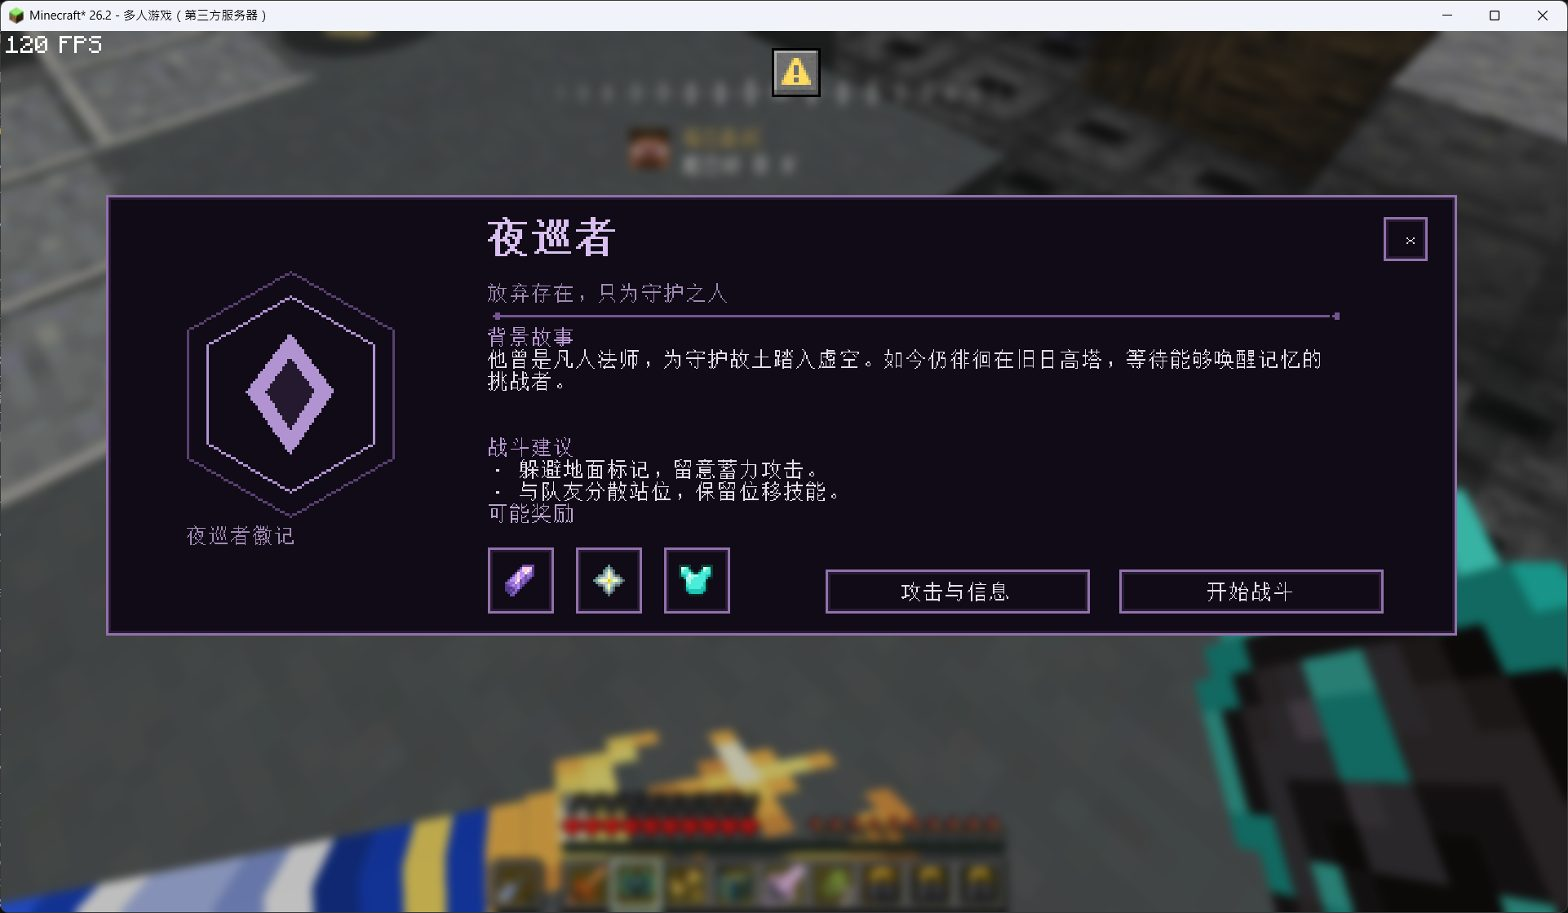
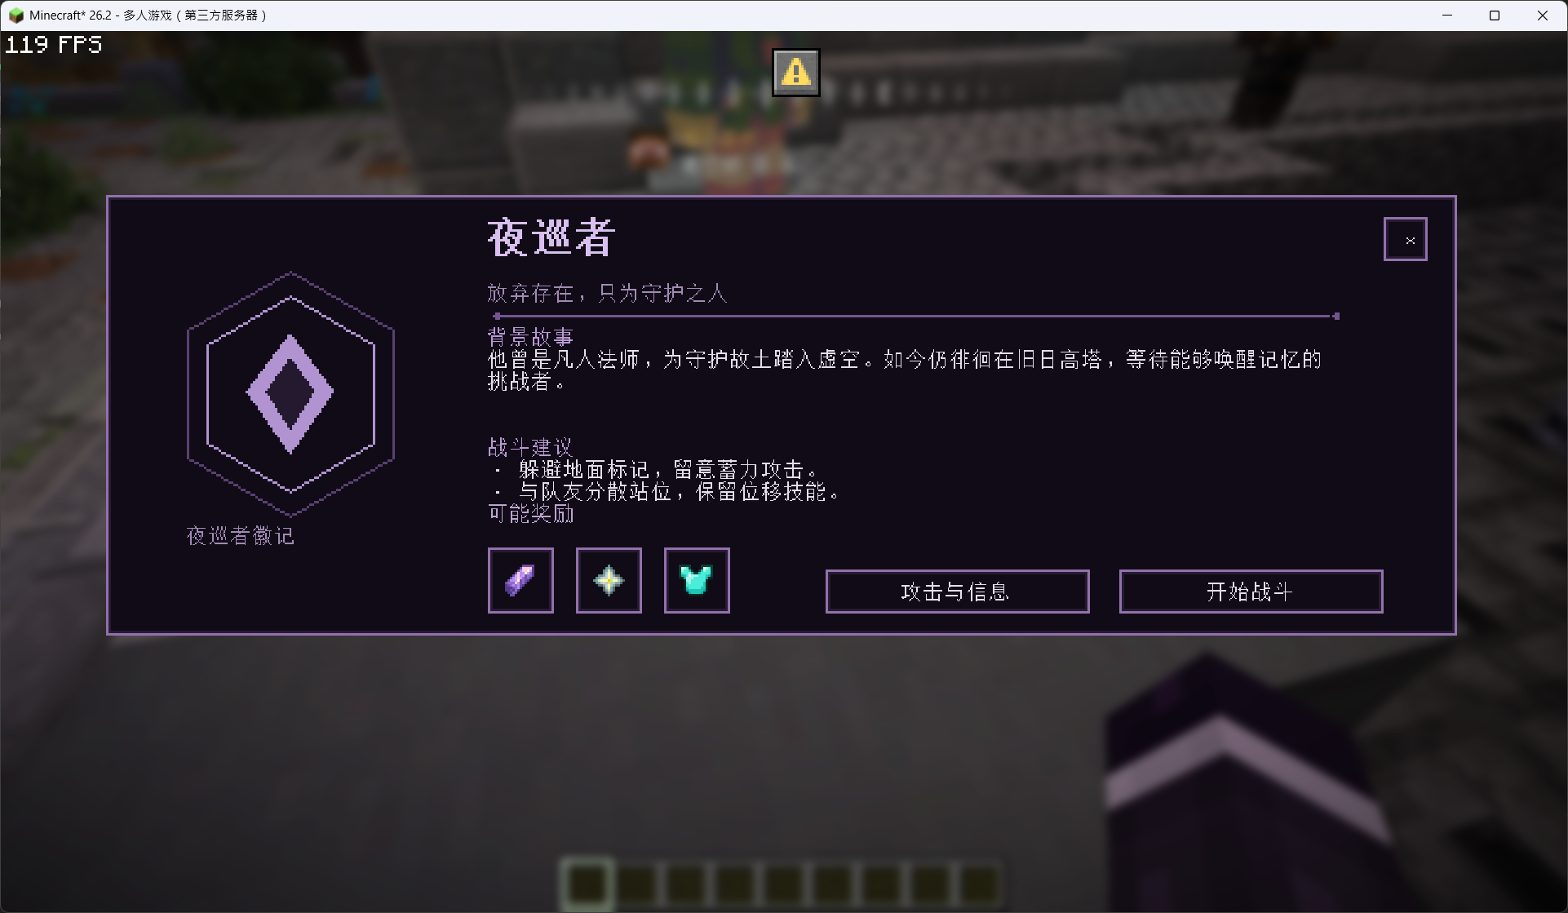
docs: refresh screenshots and arrange previews horizontally

diff --git a/README.en.md b/README.en.md
@@ -10,19 +10,12 @@ Each file defines a complete menu, with related pages grouped under `Pages`. Arr
 
 ## Screenshots
 
-In-game screenshots of the bundled quest, conversation, and boss menus. These examples use Chinese menu text.
+In-game screenshots with Chinese menu text. Click an image to view the original.
 
-**Quest list**: Categories, pagination, quest progress, and reward icons.
-
-![DialogMenu quest list with category filters, quest details, progress, and rewards](docs/images/quest-menu.jpg)
-
-**NPC conversation**: A parchment-style interface with a character icon and dialogue choices.
-
-![DialogMenu NPC conversation with the gatekeeper and trial dialogue choices](docs/images/npc-dialogue.jpg)
-
-**Boss introduction**: Background story, combat tips, reward previews, and action buttons.
-
-![DialogMenu boss introduction with background story, combat tips, and rewards](docs/images/boss-menu.jpg)
+| NPC conversation | Boss introduction | Quest list |
+| :---: | :---: | :---: |
+| [![DialogMenu NPC conversation with the gatekeeper and trial dialogue choices](docs/images/npc-dialogue.jpg)](docs/images/npc-dialogue.jpg?raw=true) | [![DialogMenu boss introduction with background story, combat tips, and rewards](docs/images/boss-menu.jpg)](docs/images/boss-menu.jpg?raw=true) | [![DialogMenu quest list with category filters, quest details, progress, and rewards](docs/images/quest-menu.jpg)](docs/images/quest-menu.jpg?raw=true) |
+| Character icon and dialogue choices | Background story, combat tips, and rewards | Categories, pagination, and quest progress |
 
 ## What you can build
 

diff --git a/README.md b/README.md
@@ -10,19 +10,12 @@ DialogMenu 是一个基于 Minecraft Dialog 的菜单插件。你可以用 YAML 
 
 ## 效果展示
 
-以下为游戏内实拍，展示任务列表、NPC 对话和首领介绍三种示例菜单。
+以下为游戏内实拍，点击图片可查看原图。
 
-**任务列表**：分类、分页、任务进度与奖励图标。
-
-![DialogMenu 任务列表：分类筛选、任务详情、进度与奖励](docs/images/quest-menu.jpg)
-
-**NPC 对话**：羊皮纸风格界面、角色图标与对话选项。
-
-![DialogMenu NPC 对话：守门人对话与试炼选项](docs/images/npc-dialogue.jpg)
-
-**首领介绍**：背景故事、战斗建议、奖励展示与操作按钮。
-
-![DialogMenu 首领介绍：夜巡者背景、战斗建议与奖励](docs/images/boss-menu.jpg)
+| NPC 对话 | 首领介绍 | 任务列表 |
+| :---: | :---: | :---: |
+| [![DialogMenu NPC 对话：守门人对话与试炼选项](docs/images/npc-dialogue.jpg)](docs/images/npc-dialogue.jpg?raw=true) | [![DialogMenu 首领介绍：夜巡者背景、战斗建议与奖励](docs/images/boss-menu.jpg)](docs/images/boss-menu.jpg?raw=true) | [![DialogMenu 任务列表：分类筛选、任务详情、进度与奖励](docs/images/quest-menu.jpg)](docs/images/quest-menu.jpg?raw=true) |
+| 角色图标与对话选项 | 背景故事、战斗建议与奖励 | 分类、分页与任务进度 |
 
 ## 可以制作什么
 

diff --git a/CHANGELOG.md b/CHANGELOG.md
@@ -2,7 +2,7 @@
 
 ## 未发布
 
-- 中英文 README 新增游戏内效果展示，附任务列表、NPC 对话和首领介绍三张截图。
+- 中英文 README 的游戏内效果展示采用横向三列图库，可点击查看原图；更新 NPC 对话、首领介绍和任务列表三张截图。
 
 - 补齐默认模板与现用菜单的图标 / 物品材质注释，列出原版、IA、Nexo、Oraxen、NI 示例及 URL / External 资源包完整写法。Wiki 新增图标与材质章节，说明导航 Icon、任务字体图标、真实物品布局的区别和自定义 PNG 字体步骤，修正旧命名空间并更新离线网页；配置值保持不变。
 
